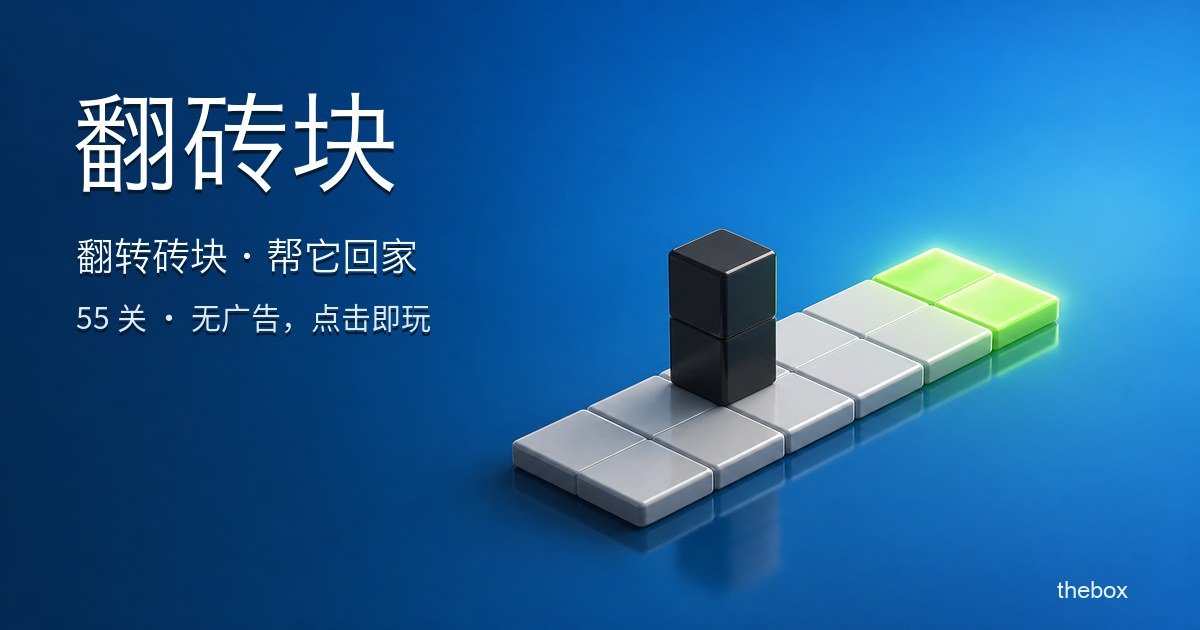
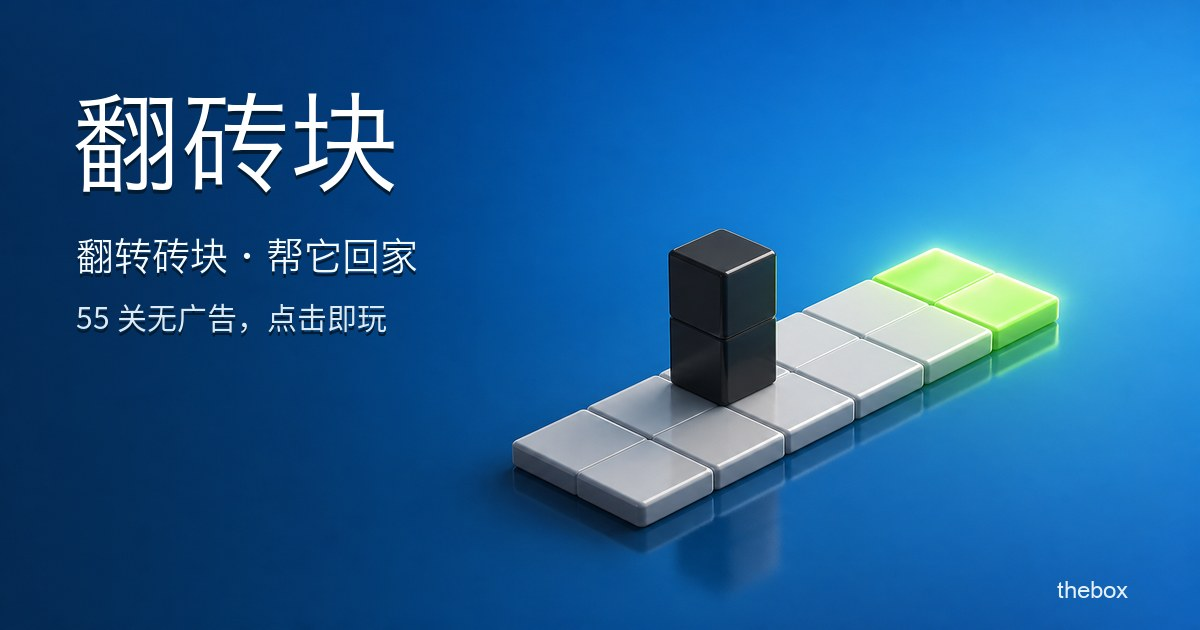
Tighten share copy by dropping extra punctuation.

Changed region(s): [[0.1233, 0.4825, 0.37, 0.5429]]

diff --git a/index.html b/index.html
@@ -9,7 +9,7 @@
     <title>翻砖块 · 55 关翻转益智</title>
     <meta
       name="description"
-      content="翻转长砖块，让它刚好躺进绿色区域。55 关。无广告，点击即玩。"
+      content="翻转长砖块，让它刚好躺进绿色区域。55 关无广告，点击即玩。"
     />
     <link rel="canonical" href="https://thebox.e2n.studio/" />
     <meta name="theme-color" content="#1f6fa8" />
@@ -26,10 +26,10 @@
     <meta property="og:title" content="翻砖块 · 翻转砖块·帮它回家" />
     <meta
       property="og:description"
-      content="翻转长砖块，让它刚好躺进绿色区域。55 关。无广告，点击即玩。"
+      content="翻转长砖块，让它刚好躺进绿色区域。55 关无广告，点击即玩。"
     />
-    <meta property="og:image" content="https://thebox.e2n.studio/share.jpg" />
-    <meta property="og:image:secure_url" content="https://thebox.e2n.studio/share.jpg" />
+    <meta property="og:image" content="https://thebox.e2n.studio/share.jpg?v=3" />
+    <meta property="og:image:secure_url" content="https://thebox.e2n.studio/share.jpg?v=3" />
     <meta property="og:image:type" content="image/jpeg" />
     <meta property="og:image:width" content="1200" />
     <meta property="og:image:height" content="630" />
@@ -39,17 +39,17 @@
     <meta name="twitter:title" content="翻砖块 · 翻转砖块·帮它回家" />
     <meta
       name="twitter:description"
-      content="翻转长砖块，让它刚好躺进绿色区域。55 关。无广告，点击即玩。"
+      content="翻转长砖块，让它刚好躺进绿色区域。55 关无广告，点击即玩。"
     />
-    <meta name="twitter:image" content="https://thebox.e2n.studio/share.jpg" />
+    <meta name="twitter:image" content="https://thebox.e2n.studio/share.jpg?v=3" />
     <meta name="twitter:image:alt" content="翻砖块游戏宣传图" />
 
     <meta itemprop="name" content="翻砖块 · 翻转砖块·帮它回家" />
     <meta
       itemprop="description"
-      content="翻转长砖块，让它刚好躺进绿色区域。55 关。无广告，点击即玩。"
+      content="翻转长砖块，让它刚好躺进绿色区域。55 关无广告，点击即玩。"
     />
-    <meta itemprop="image" content="https://thebox.e2n.studio/share.jpg" />
+    <meta itemprop="image" content="https://thebox.e2n.studio/share.jpg?v=3" />
 
     <link rel="icon" href="/favicon.svg" type="image/svg+xml" />
     <link rel="icon" href="/favicon-32.png" type="image/png" sizes="32x32" />
@@ -63,13 +63,13 @@
         "name": "翻砖块",
         "alternateName": "thebox",
         "url": "https://thebox.e2n.studio/",
-        "description": "翻转长砖块，让它刚好躺进绿色区域。55 关。无广告，点击即玩。",
+        "description": "翻转长砖块，让它刚好躺进绿色区域。55 关无广告，点击即玩。",
         "inLanguage": "zh-CN",
         "genre": "Puzzle",
         "gamePlatform": "Web browser",
         "applicationCategory": "GameApplication",
         "isAccessibleForFree": true,
-        "image": "https://thebox.e2n.studio/share.jpg",
+        "image": "https://thebox.e2n.studio/share.jpg?v=3",
         "offers": {
           "@type": "Offer",
           "price": "0",
